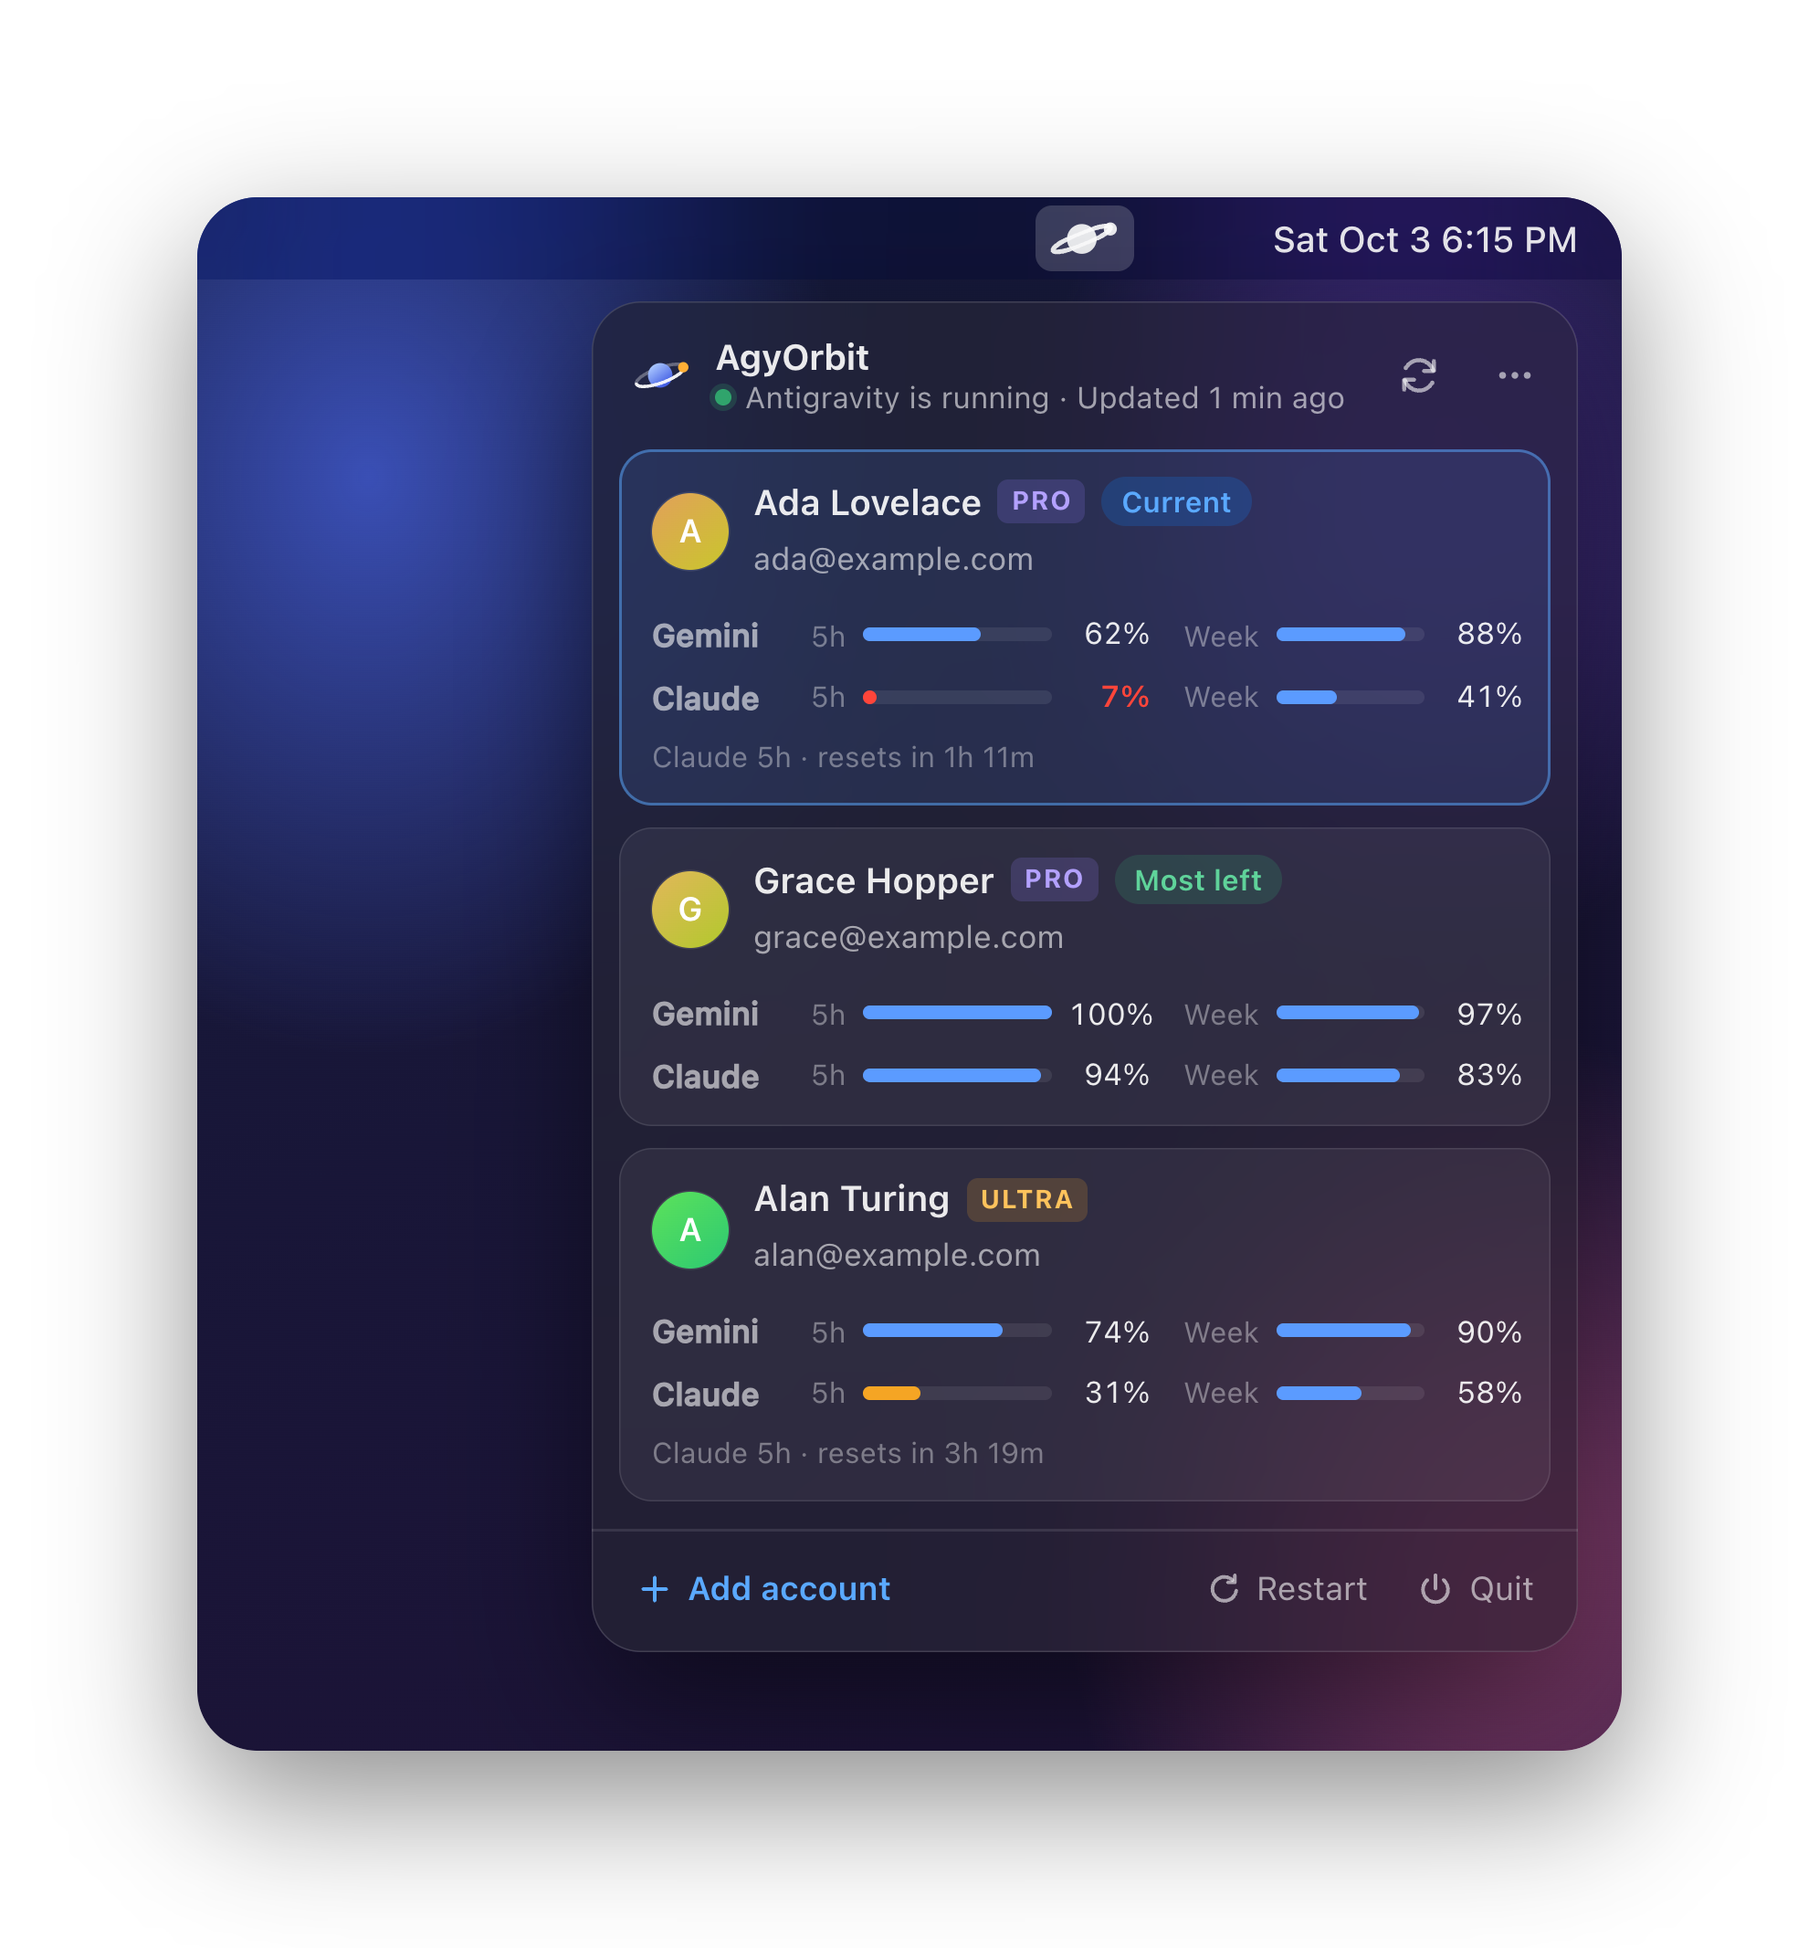
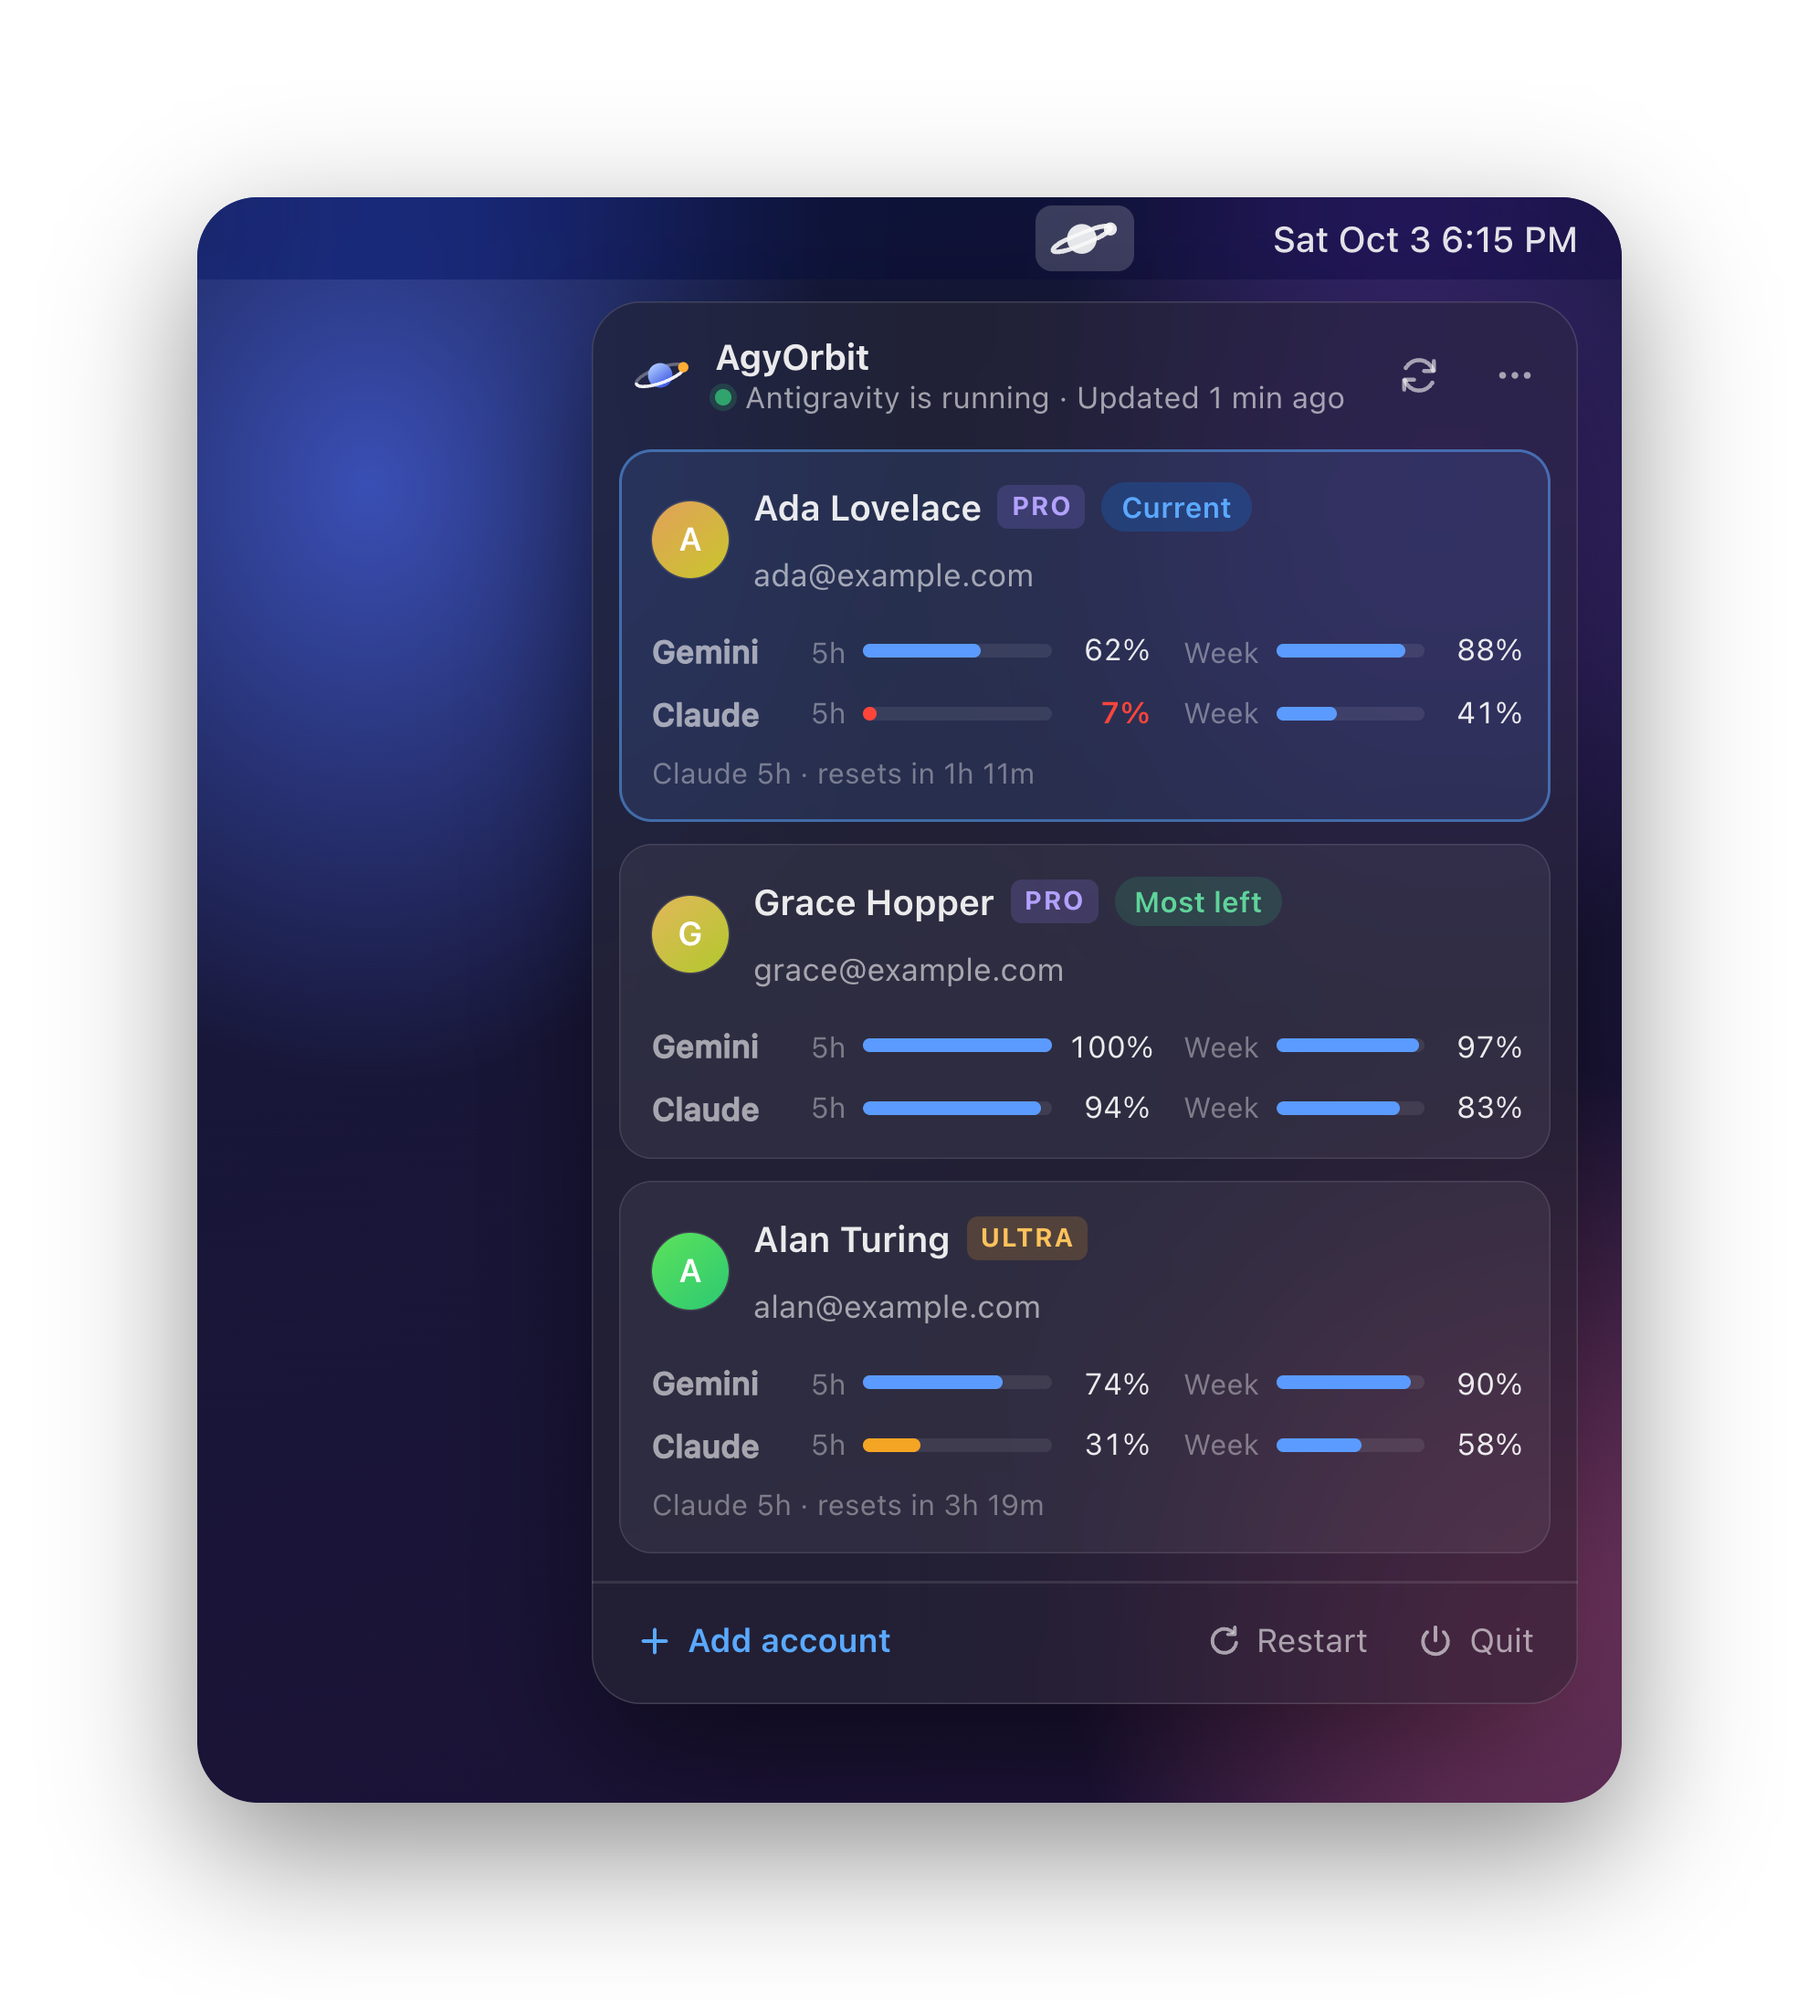
Simplify account selection and align the account menu

diff --git a/src/components/account-card.tsx b/src/components/account-card.tsx
@@ -83,7 +83,7 @@ export function AccountCard({ account, active, best, disabled, onSwitch, onReaut
   const canSwitch = !active && !disabled && account.quota.status !== "reauth";
   const classes = ["card", active && "card-active", canSwitch && "card-switchable"].filter(Boolean).join(" ");
   return (
-    // biome-ignore lint/a11y/useKeyWithClickEvents: the Switch button inside is the keyboard path.
+    // biome-ignore lint/a11y/useKeyWithClickEvents: the account identity button is the keyboard path.
     <article
       className={classes}
       onClick={canSwitch ? onSwitch : undefined}
@@ -93,30 +93,33 @@ export function AccountCard({ account, active, best, disabled, onSwitch, onReaut
       }}
     >
       <header className="card-head">
-        <Avatar id={account.id} label={name} picture={account.picture} />
-        <div className="card-id">
-          <div className="card-name">
+        <button
+          type="button"
+          className="card-identity"
+          aria-label={[
+            name,
+            account.plan?.kind.toUpperCase(),
+            active && t("account.current"),
+            !active && best && t("account.best"),
+            canSwitch ? t("account.switchTo", { email: account.email }) : account.email,
+          ]
+            .filter(Boolean)
+            .join(" · ")}
+          disabled={!canSwitch}
+          onClick={(event) => {
+            event.stopPropagation();
+            onSwitch();
+          }}
+        >
+          <Avatar id={account.id} label={name} picture={account.picture} />
+          <span className="card-name">
             <span className="truncate">{name}</span>
             <PlanBadge plan={account.plan} />
             {active && <span className="tag tag-current">{t("account.current")}</span>}
             {!active && best && <span className="tag tag-best">{t("account.best")}</span>}
-          </div>
-          <div className="card-email-row">
-            <span className="card-email truncate">{account.email}</span>
-            {canSwitch && (
-              <button
-                type="button"
-                className="switch-btn"
-                onClick={(event) => {
-                  event.stopPropagation();
-                  onSwitch();
-                }}
-              >
-                {t("account.switch")}
-              </button>
-            )}
-          </div>
-        </div>
+          </span>
+          <span className="card-email truncate">{account.email}</span>
+        </button>
         <button
           type="button"
           className="icon-btn card-more"

diff --git a/src/components/account-card.css b/src/components/account-card.css
@@ -12,11 +12,13 @@
 }
 
 .card-switchable {
-  cursor: default;
+  cursor: pointer;
 }
 
-.card-switchable:hover {
+.card-switchable:hover,
+.card-switchable:focus-within {
   background: var(--card-hover);
+  box-shadow: inset 0 0 0 1px var(--accent-line);
 }
 
 .card-active {
@@ -25,34 +27,51 @@
 }
 
 .card-head {
-  display: flex;
-  align-items: center;
-  gap: 9px;
+  display: grid;
+  grid-template-columns: minmax(0, 1fr) 26px;
+  column-gap: 6px;
   min-width: 0;
 }
 
-.card-id {
-  flex: 1;
+.card-identity {
+  display: grid;
+  grid-template-columns: auto minmax(0, 1fr);
+  grid-template-rows: repeat(2, 22px);
+  align-items: center;
+  column-gap: 9px;
+  row-gap: 2px;
   min-width: 0;
+  text-align: left;
+}
+
+.card-identity:not(:disabled) {
+  cursor: pointer;
+}
+
+.card-identity:disabled {
+  opacity: 1;
+}
+
+.card-identity:focus-visible {
+  outline: none;
+}
+
+.card-identity > .avatar {
+  grid-area: 1 / 1 / 3 / 2;
 }
 
 .card-name {
+  grid-area: 1 / 2;
   display: flex;
   align-items: center;
   gap: 6px;
+  min-width: 0;
   font-weight: 600;
   line-height: 17px;
 }
 
-.card-email-row {
-  display: flex;
-  align-items: center;
-  gap: 6px;
-  min-height: 22px;
-}
-
 .card-email {
-  flex: 1;
+  grid-area: 2 / 2;
   min-width: 0;
   font-size: 11.5px;
   line-height: 15px;
@@ -79,28 +98,9 @@
   background: var(--good-fill);
 }
 
-.switch-btn {
-  flex: none;
+.card-head .card-more {
+  align-self: start;
   height: 22px;
-  padding: 0 10px;
-  border-radius: 999px;
-  font-size: 11.5px;
-  font-weight: 600;
-  white-space: nowrap;
-  color: #fff;
-  background: var(--accent);
-  opacity: 0;
-  pointer-events: none;
-  transition: opacity 120ms ease;
-}
-
-.card:hover .switch-btn,
-.card:focus-within .switch-btn {
-  opacity: 1;
-  pointer-events: auto;
-}
-
-.card-more {
   opacity: 0;
 }
 

diff --git a/src/i18n.ts b/src/i18n.ts
@@ -11,7 +11,7 @@ const en = {
   "status.missing": "Antigravity not found",
   "account.current": "Current",
   "account.best": "Most left",
-  "account.switch": "Switch",
+  "account.switchTo": "Switch to {email}",
   "account.loading": "Loading quota…",
   "account.failed": "Couldn't load quota",
   "account.reauth": "Sign-in expired",
@@ -124,7 +124,7 @@ const zh: Record<Key, string> = {
   "status.missing": "未找到 Antigravity",
   "account.current": "当前",
   "account.best": "余量最多",
-  "account.switch": "切换",
+  "account.switchTo": "切换到 {email}",
   "account.loading": "正在获取额度…",
   "account.failed": "额度获取失败",
   "account.reauth": "授权已失效",

diff --git a/scripts/screenshot/mock-tauri.js b/scripts/screenshot/mock-tauri.js
@@ -86,7 +86,7 @@ document.addEventListener("DOMContentLoaded", () => {
   if (scene !== "confirm") return;
   // Open the switch confirmation as soon as the recommended card renders.
   const observer = new MutationObserver(() => {
-    const button = document.querySelector(".card:has(.tag-best) .switch-btn");
+    const button = document.querySelector(".card:has(.tag-best) .card-identity");
     if (button) {
       observer.disconnect();
       button.click();

diff --git a/docs/status.md b/docs/status.md
@@ -34,8 +34,10 @@ Each external fact these rely on, and the Antigravity version it was checked aga
   returns to the list. Native content frames and the clipping radius stay aligned when the window
   resizes.
 
-- Account-card layout in Chrome on macOS, in English and Simplified Chinese, light and dark: tags and
-  the Switch button do not overlap, including long names and emails, hover and keyboard focus.
+- Account-card layout in Chrome on macOS, in English and Simplified Chinese, light and dark: the account
+  identity, tags and More do not overlap, including long names and emails. Hover and
+  keyboard focus highlight switchable cards; identity activation opens the confirmation and Escape
+  returns focus to it.
 
 - Update sheets in Chrome on macOS, in both languages and appearances: long notes, an empty account
   list, determinate and indeterminate download progress, Escape/Later dismissal, and exactly one

diff --git a/docs/design.md b/docs/design.md
@@ -46,8 +46,10 @@ What happens and when is defined in [PRODUCT.md](../PRODUCT.md); this is how it 
 - One row per quota group (Gemini, Claude) with the 5-hour and weekly windows side by side, each a meter
   and the share remaining. Colour changes only when it matters: amber below 35 %, red below 10 %.
 - When a window is low, a footnote says when it recovers; hovering any meter shows its reset time.
-- The Switch button appears on hover or keyboard focus in reserved space beside the email, so it never
-  overlaps the name, plan or tags.
+- Clicking a switchable card opens the switch confirmation. Hover and keyboard focus highlight its
+  fill and border; the account identity is the keyboard activation target. More sits at the far right
+  of the name and tags row and appears on hover or focus. Long names and emails truncate within their
+  own column.
 
 ## Visual tokens
 

diff --git a/CHANGELOG.md b/CHANGELOG.md
@@ -13,6 +13,11 @@ All notable changes to AgyOrbit are documented here. The format follows
 - Clip the macOS popover content inside its native Liquid Glass container, so page backgrounds and
   confirmation backdrops cannot draw rectangular corners outside the glass surface.
 
+### Changed
+
+- Remove the redundant Switch pill from account cards. Highlight the whole card on hover or keyboard
+  focus, retain keyboard activation and move More to the far right of the name and tags row.
+
 ## [0.1.5] - 2026-10-06
 
 ### Fixed
